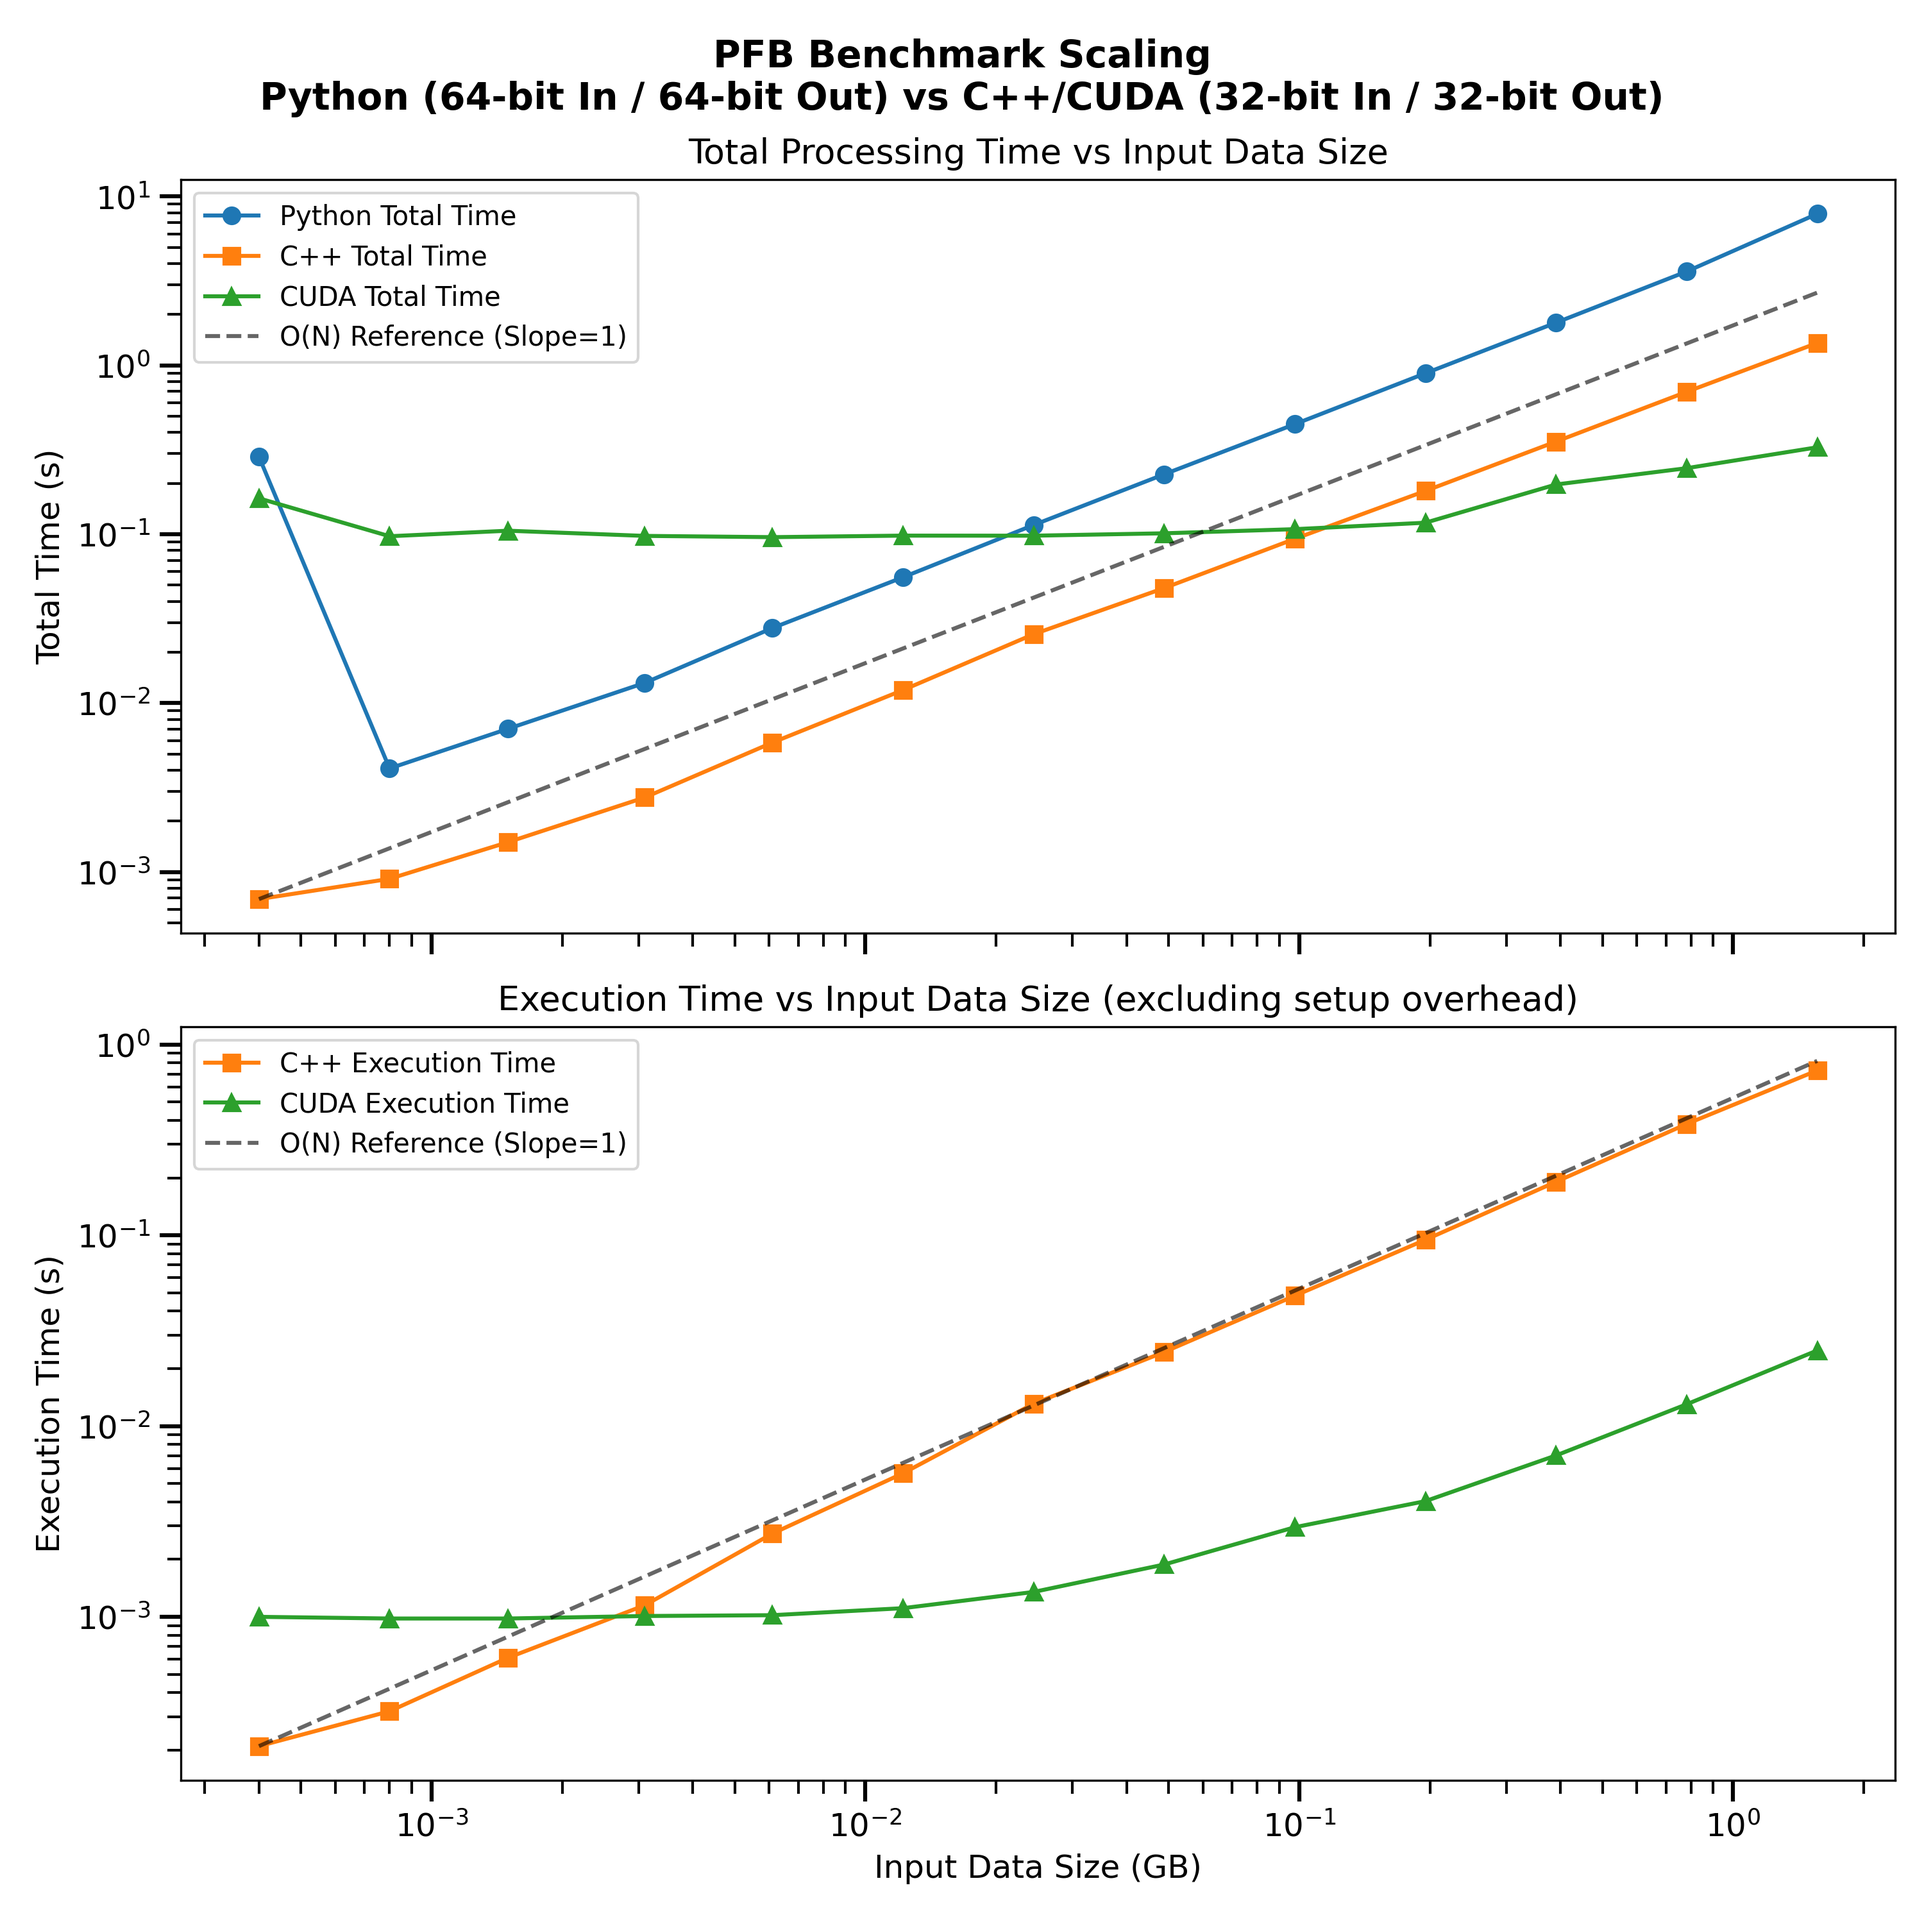
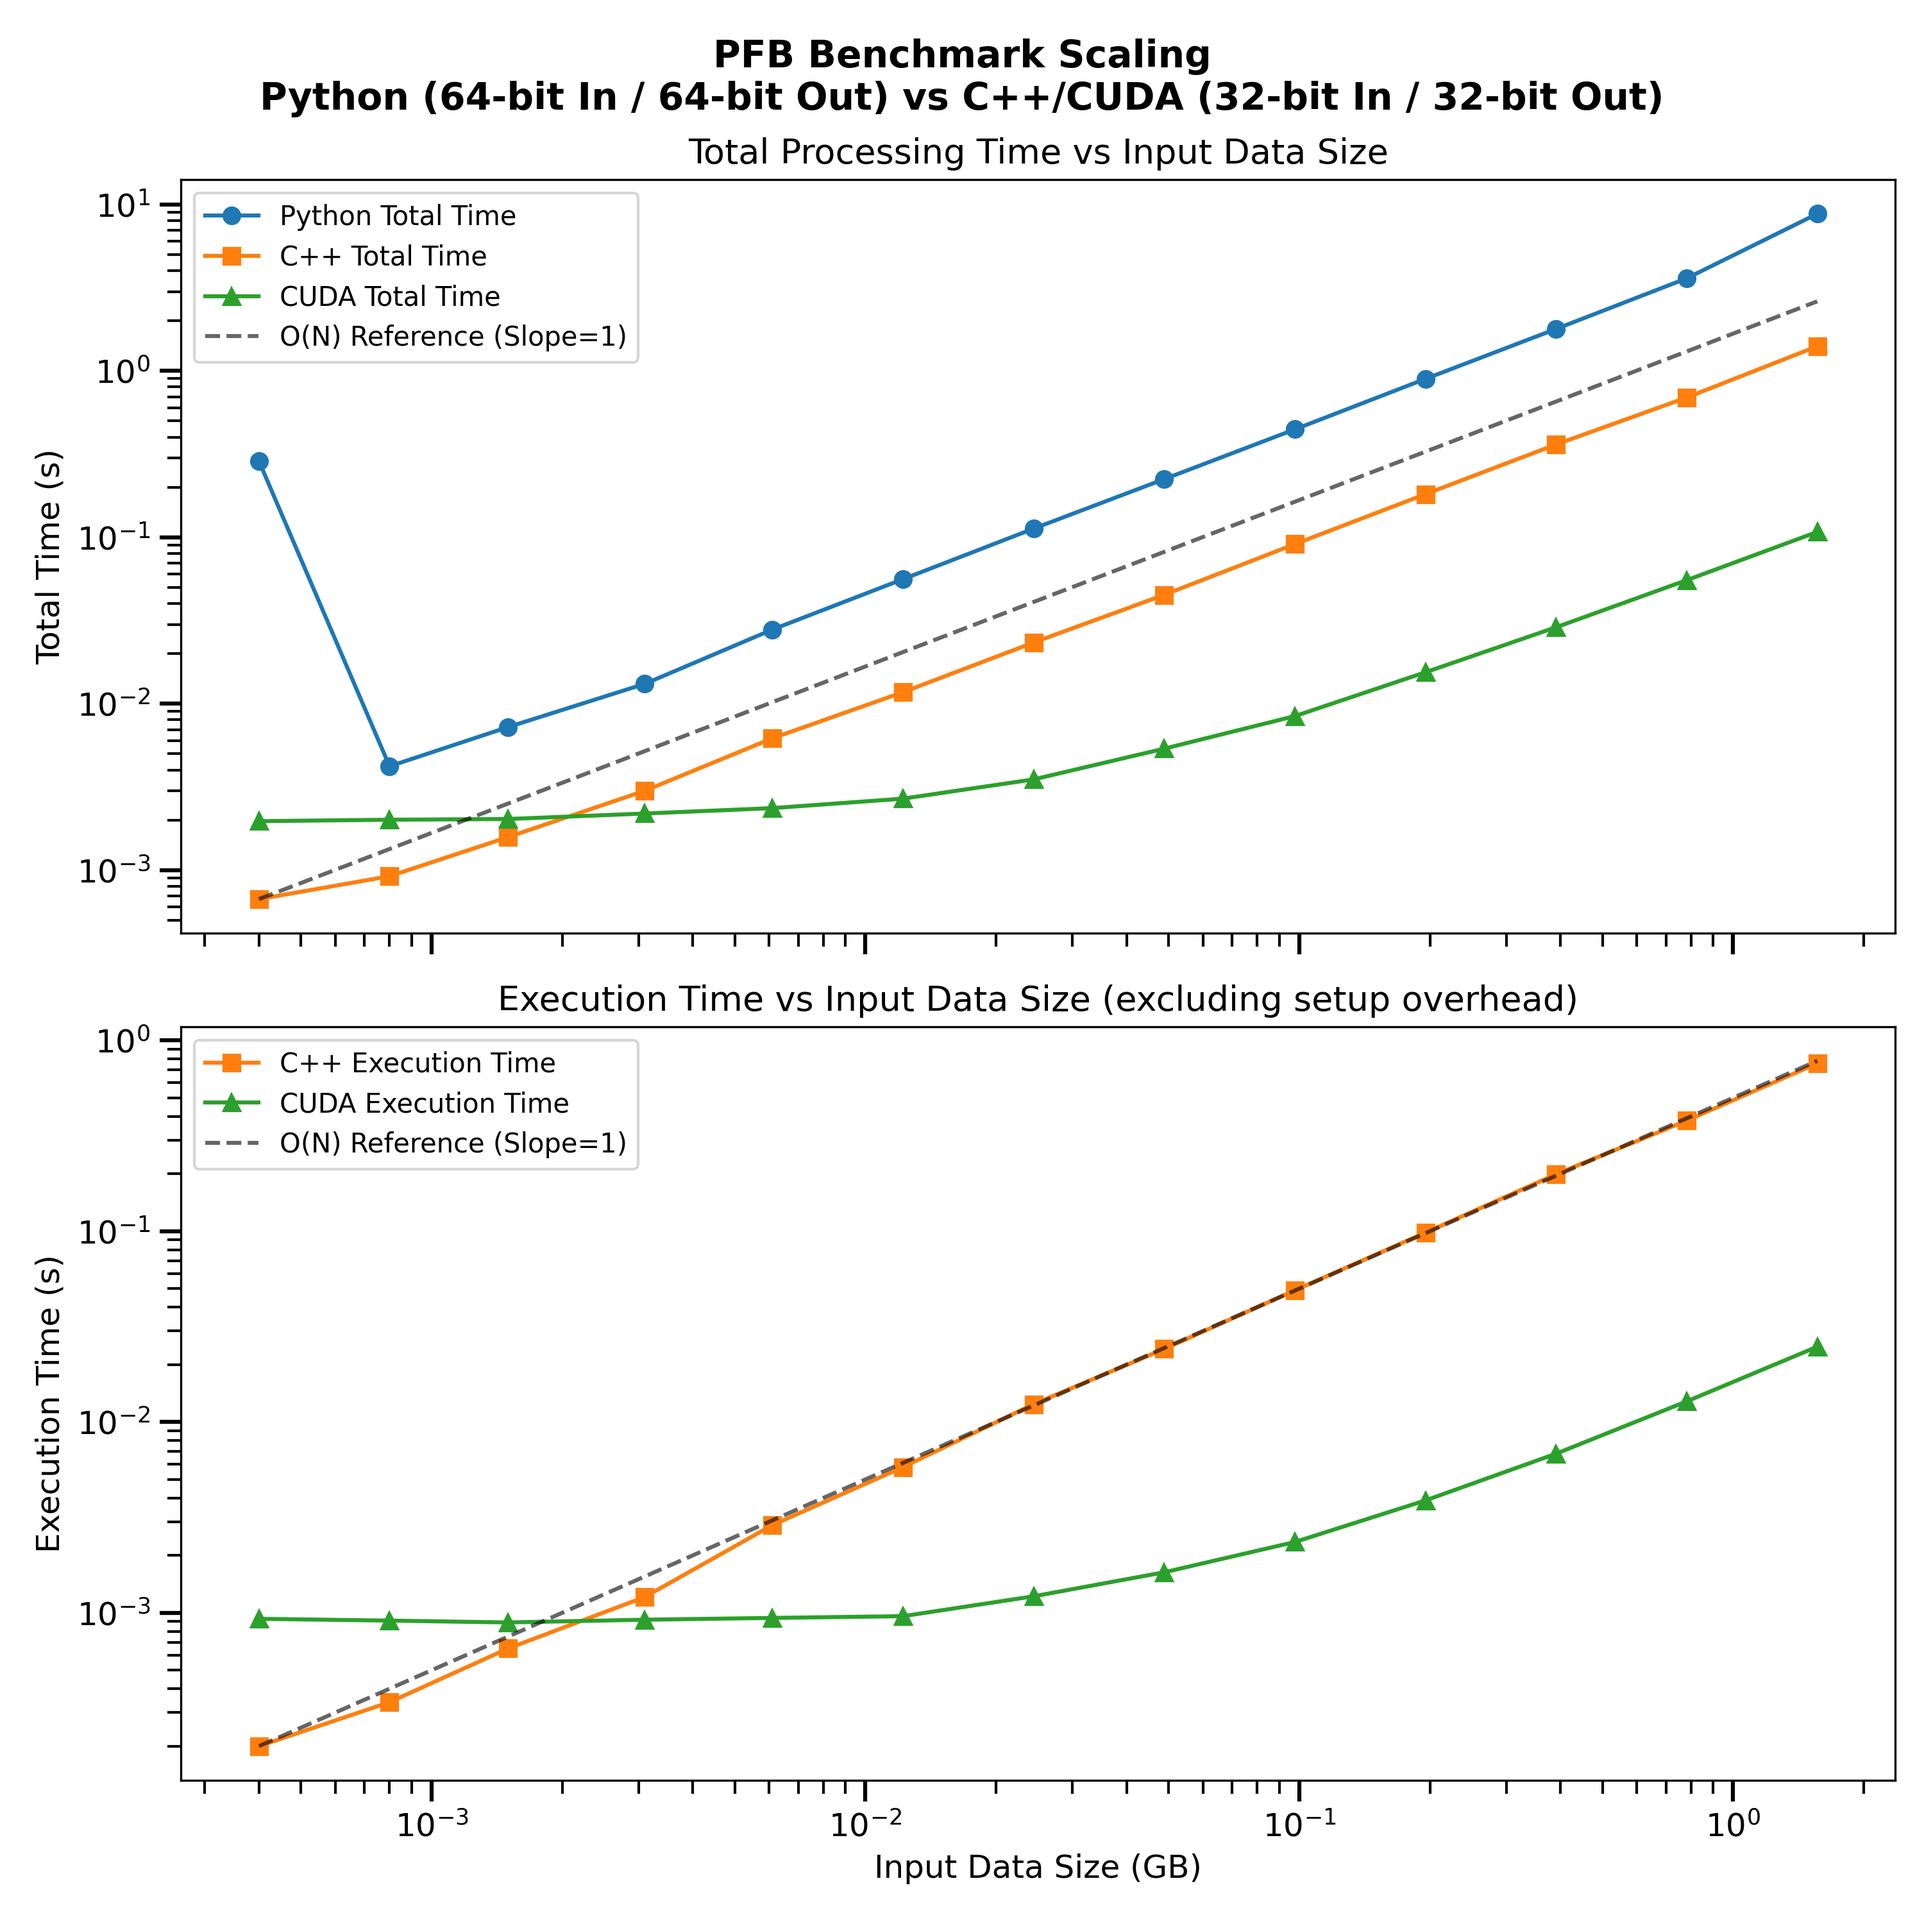
both indexes and variables pooled, pinned memory for host instead of paged

diff --git a/PFB_CPU/codes/PFB_python/python_c_comparison.py b/PFB_CPU/codes/PFB_python/python_c_comparison.py
@@ -287,8 +287,8 @@ if __name__ == "__main__":
     
     in_NBIT_python = 64
     out_NBIT_python = 64 
-    in_NBIT_cpp = 64
-    out_NBIT_cpp = 64
+    in_NBIT_cpp = 32
+    out_NBIT_cpp = 32
     
     # Easily toggle Python execution on or off here
     run_python_baseline = True
